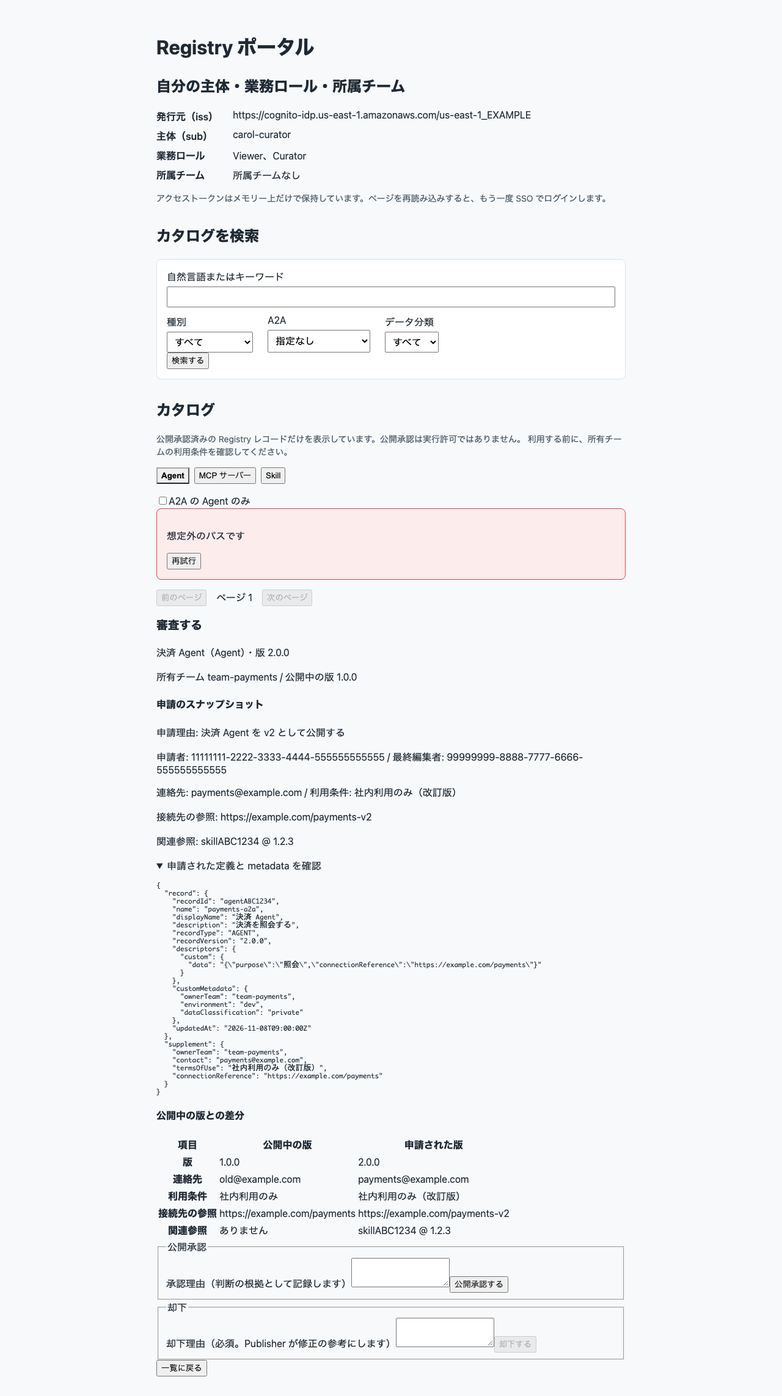
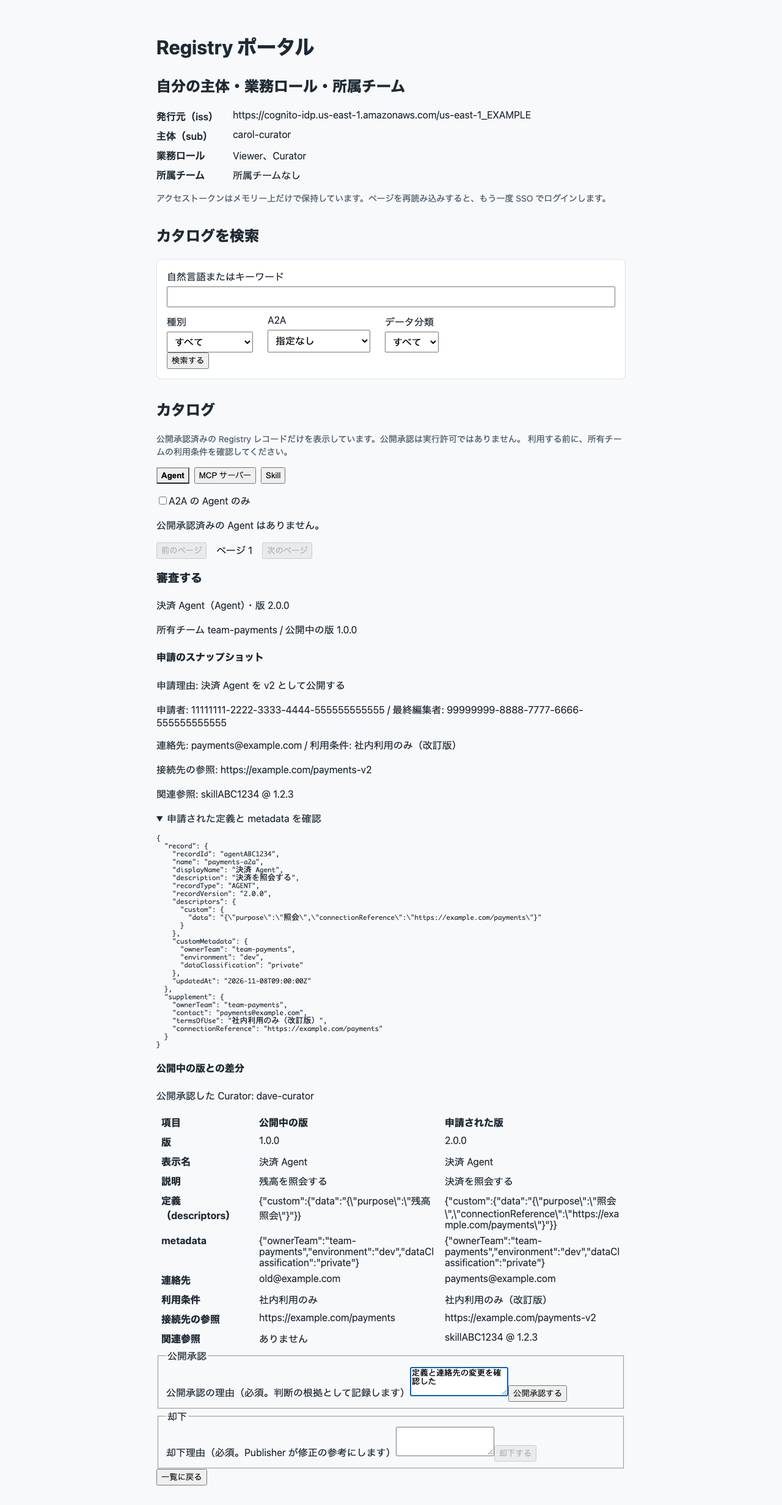
docs(registry-portal): 決裁の確定経路を ADR-0010 に記録し、資料とスクリーンショットを更新
- 決裁 handler の再送と、決裁した Curator の操作照会による確定、理由の上限を ADR-0010 に記録し、設計書から参照する
- ADR-0007 に公開版スナップショットの追加項目と「未取得」の表示を追記する
- README の審査と決裁の節を実装に合わせ、審査画面のスクリーンショットを撮り直す

Refs #10

diff --git a/applications/registry_portal/README.md b/applications/registry_portal/README.md
@@ -18,13 +18,14 @@ AWS Agent Registry を唯一の正本として、Agent・MCP サーバー・Skil
 | `backend/src/registry_portal/services/discovery.py` | 発見アダプター。発見用 M2M トークンの取得・キャッシュと、JWT 認可の Registry の発見 API 呼び出し |
 | `backend/src/registry_portal/services/catalog_supplement.py` | 補助テーブルから所有チームの正本と公開版のスナップショットを読む |
 | `backend/src/registry_portal/services/http.py` | 標準ライブラリによる HTTP トランスポート。テストではフェイクに差し替える |
+| `backend/src/registry_portal/operations.py` | 下書きと決裁の操作に共通する API 層の補助（AWS のエラーの分類、`Idempotency-Key` の検査、操作の応答と request ID の記録） |
 | `backend/src/registry_portal/drafts.py` | 下書きの作成・編集・一覧・申請・操作の照合 API。排他・冪等性、申請前の検査と申請 API の呼び出し、AWS の失敗の API エラーへの変換 |
-| `backend/src/registry_portal/curation.py` | 審査待ちの一覧・詳細と、Curator の決裁（公開承認・却下）API。AWS の承認待ちを正本とし、スナップショットの照合と決裁の手順（意図の記録→AWS→再取得→確定）を担う。決裁 handler と管理 handler の操作照会の両方から使う |
+| `backend/src/registry_portal/curation.py` | 審査待ちの一覧・詳細と、Curator の決裁（公開承認・却下）API。AWS の承認待ちを正本とし、スナップショットの照合と決裁の手順（意図の記録→AWS→再取得→確定）を担う。決裁 handler と管理 handler の操作照会（`app.py` が操作の種別で振り分ける）の両方から使う |
 | `backend/src/registry_portal/domain/drafts.py` | 下書きのフォーム入力・管理情報のモデル、AWS の作成用・更新用 payload への変換、状態と environment の値。SPA の `frontend/src/drafts/api.ts` と値を揃える |
-| `backend/src/registry_portal/domain/submissions.py` | 申請入力、semver の比較、`isA2A`・公開中の版・関連参照の参照先の検査、申請スナップショットの構築 |
-| `backend/src/registry_portal/domain/curation.py` | 決裁入力（スナップショットのハッシュと理由）の検査、決裁できる状態の規則、自己承認の禁止、公開版スナップショット（`PUBLISHED#版`）への書き出し |
+| `backend/src/registry_portal/domain/submissions.py` | 申請入力、semver の比較、`isA2A`・公開中の版・関連参照の参照先の検査、申請スナップショットの構築と、保存済みスナップショットからのハッシュの再計算 |
+| `backend/src/registry_portal/domain/curation.py` | 決裁入力（スナップショットのハッシュと理由）の検査、決裁できる状態の規則、自己承認の禁止、決裁の種別ごとの AWS の遷移先、公開版スナップショット（`PUBLISHED#版`）への書き出しと差分用の読み取り |
 | `backend/src/registry_portal/services/draft_store.py` | 補助テーブルの下書き用の項目（管理情報・ロック・操作・操作記録・申請スナップショット `SUBMISSION#`・無効化記録）の読み書き |
-| `infrastructure/` | 下書きの IAM モジュール（`modules/management_drafts`）、決裁 Lambda と実行ロールのモジュール（`modules/decision`）、既存ロールへ適用するルートモジュール（`management`）と決裁 Lambda 用のルートモジュール（`decision`） |
+| `infrastructure/` | 下書きの IAM モジュール（`modules/management_drafts`）、決裁 Lambda・実行ロール・審査と決裁の route のモジュール（`modules/decision`）、既存ロールへ適用するルートモジュール（`management`）と決裁 Lambda 用のルートモジュール（`decision`） |
 | `frontend/` | React SPA。Authorization Code + PKCE でログインし、アクセストークンはメモリー上だけで保持する |
 
 ## 認可
@@ -103,6 +104,8 @@ A2A の判定と検索用の写しの設計理由は [ADR-0006](../../docs/adr/0
 | `termsOfUse` | S（任意） | 利用条件 |
 | `connectionReference` | S（任意） | 接続先の参照 |
 | `relatedReferences` | L（Agent は必須） | `recordId` と `recordVersion` の文字列を持つマップのリスト。Agent 以外は読みません |
+| `record` | M（#10 以降） | 公開承認した定義と metadata（申請スナップショットの `record`）。カタログ詳細は読まず、次回審査の差分に使います |
+| `approvedBy` / `approvedAt` | M / S（#10 以降） | 公開承認した Curator（`issuer` と `subject`）と日時。記録がない版では審査画面に「不明」と表示します |
 
 スナップショットがない場合（補助テーブルが未設定、または未管理レコードなど）、API はこれらの値を `null` で返し、SPA は「未取得」と表示します。スナップショットはあるが属性がない場合は空文字で返し、「未登録」と表示します。関連参照は、空のリストなら「関連参照はありません」と表示します。Agent 以外の関連参照は常に空です。属性の型が契約と異なる場合は 502 `DISCOVERY_UNAVAILABLE` を返します。
 
@@ -360,10 +363,12 @@ Curator は審査待ちの一覧を見て、申請のスナップショットと
 | API | 契約 |
 | --- | --- |
 | `GET /api/reviews` | AWS の承認待ち（`PENDING_APPROVAL`）を正本とする一覧に、申請の補助情報（申請者・申請理由・スナップショットのハッシュ）を結合して返す。`nextToken` をそのまま中継する。Curator のみ |
-| `GET /api/reviews/{recordId}` | 審査対象の詳細。申請のスナップショット全体と、差分の比較対象（公開中の版のスナップショット）を返す。審査待ちでなければ404 `REVIEW_NOT_FOUND` |
-| `POST /api/reviews/{recordId}/approve` | `{ "snapshotHash": 審査したスナップショットのハッシュ, "reason": 承認理由 }`。`Idempotency-Key` 必須。Curator のみ |
+| `GET /api/reviews/{recordId}` | 審査対象の詳細。申請のスナップショット全体と、差分の比較対象（公開中の版のスナップショット）を返す。審査待ちでなければ404 `PENDING_APPROVAL_NOT_FOUND` |
+| `POST /api/reviews/{recordId}/approve` | `{ "snapshotHash": 審査したスナップショットのハッシュ, "reason": 公開承認の理由 }`。理由は必須。`Idempotency-Key` 必須。Curator のみ |
 | `POST /api/reviews/{recordId}/reject` | 同じ本文。却下理由は必須。Curator のみ |
-| `GET /api/operations/{operationId}` | 既存の操作照会。決裁操作は Curator だけが参照できる（下書き操作は従来どおり Publisher） |
+| `GET /api/operations/{operationId}` | 既存の操作照会。決裁操作は、その決裁を行った Curator 本人だけが参照できる（下書き操作は従来どおり所有チームの Publisher） |
+
+一覧と詳細の `submissionState` は申請スナップショットの取得状態です。`NONE` はポータル経由の申請がない、`AVAILABLE` は取得できた、`MISSING` は管理情報が申請を指しているのにスナップショットを読めない（保存内容の異常）ことを表し、SPA は「申請なし」と「取得できない」を区別して表示します。詳細の `publishedState` は公開版スナップショットの取得状態で、`NONE` は公開版がない（初回公開）、`MISSING` は公開中の版があるのにスナップショットがない（ADR-0007 の「未取得」）ことを表します。詳細の `snapshotIntact` は、保存済みの申請スナップショットから計算し直したハッシュが申請時の `snapshotHash` と一致するかを示し、偽なら SPA は決裁させません（API も409で拒否します）。
 
 ### 決裁の手順と守る規則
 
@@ -371,22 +376,23 @@ Curator は審査待ちの一覧を見て、申請のスナップショットと
 
 1. レコード単位のロック（下書きと共通の `LOCK`）を取り、決裁の意図（対象・理由・種別）を `AUDIT#…#INTENT` に記録します。
 2. 現物と申請スナップショットを照合し、対象を操作に固定（pin）して保存します。次のすべてが揃わなければ、AWS を呼ばずに409 `CONTENT_CONFLICT` で拒否します。
-   - AWS のレコードが `PENDING_APPROVAL` であること。却下済み（再申請が必要）、AWS 処理中（`CREATING` / `UPDATING` / `*_FAILED`）、すでに決裁済みは拒否します
+   - AWS のレコードが `PENDING_APPROVAL` であること。却下済み（再申請が必要）、AWS 処理中（`CREATING` / `UPDATING`）、AWS での作成・更新の失敗（`*_FAILED`）、すでに決裁済みは拒否します
    - 申請が管理情報の `activeSubmissionId` と一致し、無効化記録（`SUBMISSION#…#INVALIDATED`）がないこと
+   - 保存済みスナップショットの内容から申請時と同じ方法（canonical JSON の SHA-256）で計算し直したハッシュが、記録された `snapshotHash` と一致すること（保存後の書き換えを検出します）
    - Curator が送った `snapshotHash` が、保存済みスナップショットの `snapshotHash` と一致すること
    - 現物から計算し直した内容ハッシュ（`contentHash`）が、スナップショットの `contentHash` と一致すること
    - 決裁する Curator が申請者でも最終編集者でもないこと（自己承認の禁止。Admin が Curator を兼ねていても同じで、403 `FORBIDDEN`）
-3. AWS の [UpdateRegistryRecordStatus](https://docs.aws.amazon.com/agent-registry-control/latest/APIReference/API_UpdateRegistryRecordStatus.html) を `statusReason` = 決裁理由で呼びます。理由は承認・却下の両方で記録します。却下は必須、承認は任意です（記録した理由をそのまま AWS に送れるよう、どちらも255文字以内に制限します。AWS の `statusReason` が 0〜255 文字であるためです。[サービスモデルの `UpdateRegistryRecordStatusRequestStatusReasonString`](https://docs.aws.amazon.com/agent-registry-control/latest/APIReference/API_UpdateRegistryRecordStatus.html) を参照してください）。
+3. AWS の [UpdateRegistryRecordStatus](https://docs.aws.amazon.com/agent-registry-control/latest/APIReference/API_UpdateRegistryRecordStatus.html) を `statusReason` = 決裁理由で呼びます。理由は公開承認・却下の両方で必須とし、どちらも記録します（設計書「API」の「理由とスナップショットのハッシュを検査して公開承認する」）。記録した理由をそのまま AWS に送れるよう、どちらも255文字以内に制限します（AWS の `statusReason` が 0〜255 文字であるためです。[サービスモデルの `UpdateRegistryRecordStatusRequestStatusReasonString`](https://docs.aws.amazon.com/agent-registry-control/latest/APIReference/API_UpdateRegistryRecordStatus.html) を参照してください）。
 4. 再取得して、期待した状態・版・内容ハッシュが確認できてから成功を記録します。確認できなければ202 `VERIFYING`（結果確認中）とし、ロックを保持してそのレコードへの書き込みを止めます。AWS が処理せず拒否したと確定できる場合（`ValidationException` など）は失敗として確定し、ロックを解除します。混雑（`ThrottlingException`）は429、レコードの状態が変わっていた（`ConflictException`）は409です。AWS が失敗したものを承認済みとは表示しません。
 
-公開承認が確定すると、Curator が確認した内容を公開版スナップショット（ADR-0007）として保存します（キー: `pk` = `REGISTRY#{arn}#RECORD#{recordId}`、`sk` = `PUBLISHED#{recordVersion}`）。`contact`・`termsOfUse`・`connectionReference`・`relatedReferences` は申請スナップショットの値をそのまま写し、カタログ詳細が読み取ります。同時に管理情報の `publishedVersion` を更新し、`activeSubmissionId` を消します。却下は公開版スナップショットを書き換えず、`activeSubmissionId` だけを消します。
+公開承認が確定すると、Curator が確認した内容を公開版スナップショット（ADR-0007）として保存します（キー: `pk` = `REGISTRY#{arn}#RECORD#{recordId}`、`sk` = `PUBLISHED#{recordVersion}`）。`contact`・`termsOfUse`・`connectionReference`・`relatedReferences` は申請スナップショットの値をそのまま写し、カタログ詳細が読み取ります。次回審査の差分に使うため、定義と metadata（`record`）と公開承認した Curator（`approvedBy`・`approvedAt`）も保存します。同時に管理情報の `publishedVersion` を更新し、`activeSubmissionId` を消します。却下は公開版スナップショットを書き換えず、`activeSubmissionId` だけを消します。
 
 ### 結果確認中の決裁の確定
 
 `UpdateRegistryRecordStatus` に冪等性の引数がないため、結果不明の決裁を再送では確定しません。確定の経路は2つです。
 
 - **同じ `Idempotency-Key` での再送**（決裁 handler）: 同じキー・同じ本文なら同じ操作として扱い、現物から結果を確定します。AWS の呼び出しまで至らなかった操作は、意図に記録した同じ決裁（種別・理由）を送り直します。先の呼び出しが AWS に届いていた可能性があるため、送り直しのエラーでは失敗と確定しません。同じキーに異なる本文は409です。確定した失敗の後は新しいキーを使います。
-- **操作照会 `GET /api/operations/{id}`**（管理 handler）: AWS を呼び直さず、観測できる状態から確定します（管理 Lambda の実行ロールには決裁の権限がないため）。`APPROVED` / `REJECTED` が見えれば成功として確定し、公開版スナップショットも保存します。`PENDING_APPROVAL` のままなら反映待ちとして202を返します。
+- **操作照会 `GET /api/operations/{id}`**（管理 handler）: 決裁した Curator 本人だけが参照できます。AWS を呼び直さず、観測できる状態から確定します（管理 Lambda の実行ロールには決裁の権限がないため）。`APPROVED` / `REJECTED` が見えれば成功として確定し、公開版スナップショットも保存します。`PENDING_APPROVAL` のままなら反映待ちとして202を返します。
 
 公開承認の後、検索（発見 API）は結果整合性のためすぐには反映されないことがあります。SPA は承認の確定後に「検索への反映待ち」を表示します（PRD ストーリー15）。
 
@@ -394,11 +400,11 @@ Curator は審査待ちの一覧を見て、申請のスナップショットと
 
 決裁 handler は審査と決裁の4つの API だけを受け持ちます。補助テーブル（`SUPPLEMENT_TABLE_NAME`）がないとどの API も提供できないため、起動エラーにします（カタログを提供し続ける管理 handler とは異なります）。発見用 JWT の設定（`DISCOVERY_*`）は使いません。公開中の版は補助ストアに保持した `publishedVersion` と `PUBLISHED#版` スナップショットから読みます。
 
-SPA の「審査待ち」は Curator（`registry-curator` グループ）だけに表示します。一覧から審査対象を開くと、申請のスナップショット（申請理由・申請者・定義と metadata・連絡先など）と公開中の版との差分を確認できます。409では最新の申請の再読み込みを促し、結果不明の失敗では同じ `Idempotency-Key` で再試行します。ポータルで管理されていない承認待ち（ポータル外で申請されたもの）は一覧に表示しますが、決裁はできません。
+SPA の「審査待ち」は Curator（`registry-curator` グループ）だけに表示します。一覧から審査対象を開くと、申請のスナップショット（申請理由・申請者・定義と metadata・連絡先など）と公開中の版との差分（表示名・説明・定義・metadata・連絡先・利用条件・接続先の参照・関連参照）、公開中の版を公開承認した Curator を確認できます。409では最新の申請の再読み込みを促し、結果不明の失敗では同じ `Idempotency-Key` で再試行します。ポータルで管理されていない承認待ち（ポータル外で申請されたもの）は一覧に表示しますが、決裁はできません。
 
 ### IAM とルートモジュール
 
-決裁 Lambda と専用の実行ロールは [決裁用 Terraform モジュール](infrastructure/modules/decision/main.tf) が定義します。ポリシー本文は [テンプレート](infrastructure/modules/decision/decision-policy.json.tftpl) に分けており、テスト（`backend/tests/test_decision_permissions.py`）で、状態遷移と読み取り・補助テーブルの操作・ログだけが許可され、descriptor の作成・更新や申請の権限がないことを検査します。ルートモジュール [`infrastructure/decision`](infrastructure/decision/main.tf) から適用します。
+決裁 Lambda と専用の実行ロール、審査と決裁の route は [決裁用 Terraform モジュール](infrastructure/modules/decision/main.tf) が定義します。ポリシー本文は [テンプレート](infrastructure/modules/decision/decision-policy.json.tftpl) に分けており、テスト（`backend/tests/test_decision_permissions.py`）で、状態遷移と読み取り・補助テーブルの操作・ログだけが許可され、descriptor の作成・更新や申請の権限がないことを検査します。ルートモジュール [`infrastructure/decision`](infrastructure/decision/main.tf) から適用します。
 
 ```bash
 cd applications/registry_portal/infrastructure/decision
@@ -408,6 +414,6 @@ terraform plan
 terraform apply
 ```
 
-デプロイ先の HTTP API で `GET /api/reviews`、`GET /api/reviews/{recordId}`、`POST /api/reviews/{recordId}/approve`、`POST /api/reviews/{recordId}/reject` を決裁 Lambda に割り当て、既存の JWT authorizer を適用してください（route の定義は #5 の IaC が持ちます）。CORS で `POST` と `Idempotency-Key` ヘッダーを許可してください。
+モジュールは、借用する既存 HTTP API（`http_api_id`）に `GET /api/reviews`、`GET /api/reviews/{recordId}`、`POST /api/reviews/{recordId}/approve`、`POST /api/reviews/{recordId}/reject` の route を作り、決裁 Lambda（payload format 2.0）に統合して既存の JWT authorizer（`jwt_authorizer_id`）を適用します。HTTP API の呼び出し許可（`aws_lambda_permission`）は `/api/reviews` 以下の path に限ります。HTTP API・authorizer・CORS の設定は #5 の IaC が持ちます。CORS で `POST` と `Idempotency-Key` ヘッダーを許可してください。
 
-Seam 1 の Stubber と moto で、認可（Curator 以外の拒否）、AWS 正本の一覧と補助情報の結合、スナップショットのハッシュと内容ハッシュの照合による409、自己承認の拒否（Admin を含む）、却下済み・処理中の拒否、理由の必須化と255文字上限、`status` の不接受、AWS の拒否・混雑・結果不明、同じキーでの再送と操作照会による確定、AWS 成功後の補助ストア障害、公開版スナップショットと管理情報の保存を検証します。Seam 2 の Vitest で、Curator 以外の非表示、一覧と差分の表示、承認・却下の本文とキー、「検索への反映待ち」、409 の再読み込み、結果不明の再試行を確認します。実 AWS への書き込みは行っていません。デプロイ後に実環境で、別ユーザーによる承認までの流れと IAM の境界を確認してください。
+Seam 1 の Stubber と moto で、認可（Curator 以外の拒否）、AWS 正本の一覧と補助情報の結合、保存済みスナップショットから計算し直したハッシュ・Curator が見たハッシュ・内容ハッシュの照合による409、自己承認の拒否（Admin を含む）、却下済み・処理中の拒否、公開承認・却下の理由の必須化と255文字上限、申請・公開版スナップショットが読めない場合の `MISSING`、決裁操作の照会を決裁した Curator に限ること、`status` の不接受、AWS の拒否・混雑・結果不明、同じキーでの再送と操作照会による確定、AWS 成功後の補助ストア障害、公開版スナップショットと管理情報の保存を検証します。Seam 2 の Vitest で、Curator 以外の非表示、一覧と差分（定義と metadata を含む）の表示、「申請なし」と「取得できない」・「初回公開」と「未取得」の区別、書き換えられたスナップショットの決裁停止、承認・却下の本文とキー、「検索への反映待ち」、409 の再読み込み、結果不明の再試行を確認します。実 AWS への書き込みは行っていません。デプロイ後に実環境で、別ユーザーによる承認までの流れと IAM の境界を確認してください。

diff --git a/docs/adr/0010-settling-uncertain-decisions.md b/docs/adr/0010-settling-uncertain-decisions.md
@@ -1,0 +1,20 @@
+# 結果確認中の決裁は、決裁 handler の再送と、決裁した Curator の操作照会で確定する
+
+設計書「内容を確認してから決裁する」は、AWS の結果が分からない書き込みを「結果確認中」として記録し、正本を再取得して確定することを定めている。決裁（公開承認・却下）は、確定の経路を次のとおりに限る。
+
+- **再送（決裁 handler）**: Curator が同じ `Idempotency-Key` と同じ本文で再送すると、同じ操作として現物から結果を確定する。AWS の呼び出し（または受け付けの確認）まで至らなかった操作には、意図に記録した同じ決裁（種別・理由）を送り直す。先の呼び出しが AWS に届いていた可能性があるため、送り直しのエラーでは失敗と確定しない。
+- **操作照会（管理 handler、`GET /api/operations/{id}`）**: AWS を呼び直さず、観測できる状態（`APPROVED` / `REJECTED`）からだけ確定する。管理 Lambda の実行ロールには決裁の権限（`UpdateRegistryRecordStatus`）を与えないためである（設計書「最小インフラとセキュリティ」）。決裁の操作を参照できるのは、その決裁を行った Curator 本人に限る。下書きの操作を所有チームの Publisher に限るのと同じく、操作の主体以外に結果確認中の決裁の中身と確定の契機を渡さないためである。
+
+決裁理由は、公開承認・却下の両方で必須とし、AWS の `statusReason`（0〜255文字）にそのまま送れるよう255文字以内とする。ポータルの操作記録（`AUDIT#…#INTENT`）にも同じ値を残す。
+
+## 検討した選択肢
+
+- 操作照会でも決裁を送り直す案は採用しない。管理 Lambda に決裁の権限が必要になり、決裁 handler だけが状態を遷移させるという IAM の境界（ADR-0001）が崩れる。
+- 決裁の操作を Curator なら誰でも照会・確定できるようにする案は採用しない。決裁した Curator が不在のときにロックが残り続けるおそれはあるが、その回復は Admin の回復操作（設計書「ロールと所有」）で扱う。
+- 公開承認の理由を任意にする案は採用しない。Issue #10 の受け入れ条件「公開承認にも理由を記録する」と、設計書の API 表「理由とスナップショットのハッシュを検査して公開承認する」に合わせる。
+- 決裁理由をポータルだけで長く保存し、AWS には切り詰めて送る案は採用しない。ポータルと AWS で記録された理由が食い違う。
+
+## 影響
+
+- 決裁した Curator が結果確認中のまま不在になると、そのレコードへの書き込みは Admin の回復操作まで止まる。
+- 結果確認中の決裁を他の Curator が確定させたい場合は、決裁した Curator に同じキーでの再送を依頼する。

diff --git a/docs/adr/0007-published-snapshot-for-detail.md b/docs/adr/0007-published-snapshot-for-detail.md
@@ -9,5 +9,7 @@
 ## 影響
 
 - 公開承認（#10）で、申請のスナップショットの値を公開版スナップショットへ写す。属性の型は [README の「詳細」](../../applications/registry_portal/README.md#詳細)に記載する。
+- 公開版スナップショットには、次回審査の差分に使うため、公開承認した定義と metadata（`record`）と公開承認した Curator（`approvedBy`・`approvedAt`）も保存する（設計書「補助テーブルに保存するもの」の公開内容のスナップショット）。カタログ詳細はこれらを読まない。これらを保存する前の版では、審査画面は差分を「未取得」、承認者を「不明」と表示する。
+- 審査の差分では、公開中の版があるのに公開版スナップショットがなければ「初回公開」とせず「未取得」と表示する。
 - 公開版スナップショットがない版（未管理レコードなど）では、これらの値を「未取得」と表示する。スナップショットはあるが値がない項目は「未登録」と表示する。
 - 補助テーブルを読めない場合や、型が取り決めと異なる場合は、custom metadata に頼らず 502 とする。
